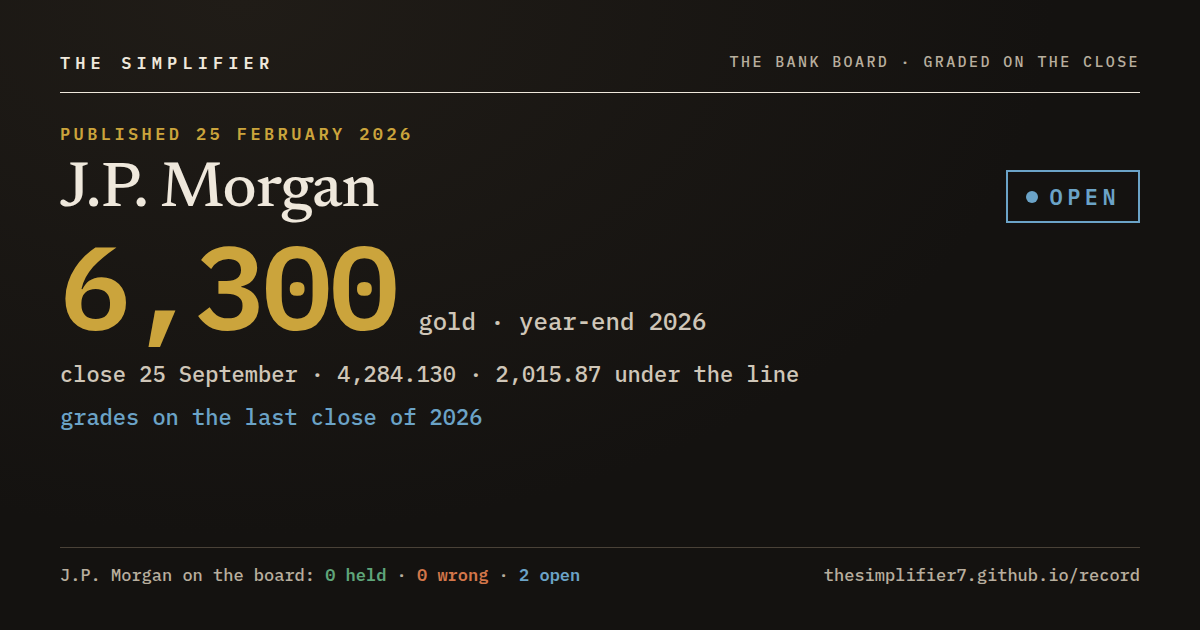
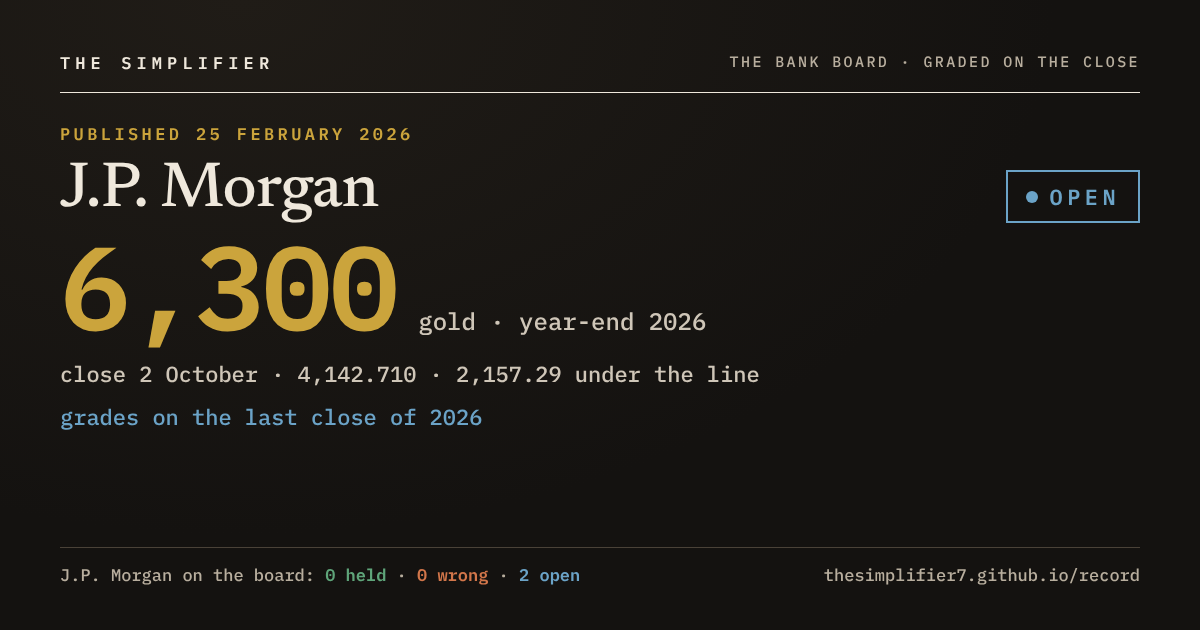
Add files via upload

diff --git a/index.html b/index.html
@@ -67,7 +67,9 @@
      <meta property="og:image" content="https://thesimplifier7.github.io/record/card_2026-09-20_open.png"> -->
 <!-- WAS card_2026-09-20_graded.png until 28 Sep 2026, the Monday map upload: the week of 20 September, as graded.
      <meta property="og:image" content="https://thesimplifier7.github.io/record/card_2026-09-20_graded.png"> -->
-<meta property="og:image" content="https://thesimplifier7.github.io/record/card_2026-09-28_open.png">
+<!-- WAS card_2026-09-28_open.png until 2 Oct 2026, note 44: the week of 28 September while its three rows were open.
+     <meta property="og:image" content="https://thesimplifier7.github.io/record/card_2026-09-28_open.png"> -->
+<meta property="og:image" content="https://thesimplifier7.github.io/record/card_2026-09-28_graded.png">
 <meta property="og:image:width" content="1200">
 <meta property="og:image:height" content="630">
 <meta name="twitter:card" content="summary_large_image">
@@ -1645,11 +1647,11 @@
        in the script. One block, two lines. -->
   <section class="stats" aria-label="Summary">
     <div class="stat">
-      <div class="num" id="t-resolved">29</div>
+      <div class="num" id="t-resolved">32</div>
       <div class="lab">Calls resolved</div>
     </div>
     <div class="stat">
-      <div class="num green" id="t-pass">22</div>
+      <div class="num green" id="t-pass">25</div>
       <div class="lab">Held</div>
     </div>
     <div class="stat">
@@ -1657,7 +1659,7 @@
       <div class="lab">Graded wrong, still on this page</div>
     </div>
     <div class="stat">
-      <div class="num blue" id="t-open">3</div>
+      <div class="num blue" id="t-open">0</div>
       <div class="lab">Open, clock running</div>
     </div>
   </section>
@@ -2094,7 +2096,7 @@
    posted call before it goes live. This page is the whole brand in one place.
    ========================================================================= */
 
-const LAST_UPDATED  = "2026-09-28";   /* set by hand, with the commit. "2026-09-28" for the Monday map upload of 28 September, the first rows named under the call grammar (note 34). WAS "2026-09-25": Kept at "2026-09-25" for the grade upload of the same night, which carries note 42 (the 25 September close). WAS "2026-09-24" until the upload of 25 September, which carries notes 38 to 40 (written 24 September) and note 41 (written early on 25 September); "2026-09-23" until the 24 September uploads, which carry notes 33 to 35 (17:34 CEST), note 36 (the same evening) and note 37 (the same night); "2026-09-20" until the 23 September upload, which carries note 30 (written 22 September, not uploaded that day) and note 31; "2026-09-13" until the 20 September upload */
+const LAST_UPDATED  = "2026-10-02";   /* set by hand, with the commit. "2026-10-02" for the grade upload of 2 October, which carries note 44, the first rows graded under the call grammar. WAS "2026-09-28": "2026-09-28" for the Monday map upload of 28 September, the first rows named under the call grammar (note 34). WAS "2026-09-25": Kept at "2026-09-25" for the grade upload of the same night, which carries note 42 (the 25 September close). WAS "2026-09-24" until the upload of 25 September, which carries notes 38 to 40 (written 24 September) and note 41 (written early on 25 September); "2026-09-23" until the 24 September uploads, which carry notes 33 to 35 (17:34 CEST), note 36 (the same evening) and note 37 (the same night); "2026-09-20" until the 23 September upload, which carries note 30 (written 22 September, not uploaded that day) and note 31; "2026-09-13" until the 20 September upload */
 
 /* =========================================================================
    PROVENANCE  ·  which commit wrote each grade, added 4 Sep 2026
@@ -2121,7 +2123,11 @@ const PROVENANCE = {
      written, and the reader reads GitHub's timestamp rather than this desk's.
      When the row is graded, this entry is replaced by the normal shape with
      the graded date and the hash, and the old shape is kept beside it. */
-  "2026-09-28": { written:"2026-09-28", open:true },
+  /* WAS, while the rows were open and before the close that graded them:
+       "2026-09-28": { written:"2026-09-28", open:true },
+     Graded on the 2 October close, written 2 October. Named by the day rather than by a hash because the hash does not exist until the
+     push that writes this line; swap in the hash on the next push. */
+  "2026-09-28": { graded:"2026-10-02", written:"2026-10-02", dayLink:true },
   /* WAS, while the rows were open and before the close that graded them:
        "2026-08-30": { written:"2026-09-04", open:true },
      Graded on the 4 September close. The commit that carried the rows is
@@ -2310,7 +2316,8 @@ const CLOSES = [
   { date:"2026-09-04", Gold:"4,430.520", Silver:"66.1940", Platinum:"1,819.60" },
   { date:"2026-09-11", Gold:"4,347.760", Silver:"64.4810", Platinum:"1,791.50" },
   { date:"2026-09-18", Gold:"4,377.290", Silver:"66.2210", Platinum:"1,800.40" },
-  { date:"2026-09-25", Gold:"4,284.130", Silver:"64.2560", Platinum:"1,777.80" }
+  { date:"2026-09-25", Gold:"4,284.130", Silver:"64.2560", Platinum:"1,777.80" },
+  { date:"2026-10-02", Gold:"4,142.710", Silver:"60.4470", Platinum:"1,699.70" }
 ];
 
 /* =========================================================================
@@ -2779,10 +2786,15 @@ const CALLS = [
        silver    box 60.932 to 64.212, last print 61.083; data window: week closes above the box 28.9756, below 48.9341
        platinum  box 1,720.72 to 1,775.80, last print 1,716.00; data window: week closes above the box 28.63, below 51.78
      The side, the line and the room are his read. The odds are the data window's, by the rule in the header
-     (an own level by the formula, stated on its row). Grade Friday at the 23:00 CEST close. */
-  { date:"2026-09-28", type:"Map", metal:"Gold", level:"4,280.50", book:"Turn", grammar:1, side:"copper", room:"4,135.74", odds:78, oddsFrom:"data window", lineFrom:"box high", box:["4,135.74","4,280.50"], readAt:"18:03 CEST", call:"Gold stays below 4,280.50, the high of the box it opened this week in, frozen Monday afternoon and read off the 8h chart at 18:03 CEST. Room 4,135.74, the box low. Odds at naming 78 in 100, off the data window. Named on the week's own box before any 8h close through it. Kill: a weekly close above 4,280.50.", grade:"pending" },
-  { date:"2026-09-28", type:"Map", metal:"Silver", level:"64.212", book:"Turn", grammar:1, side:"copper", room:"60.932", odds:71, oddsFrom:"data window", lineFrom:"box high", box:["60.932","64.212"], readAt:"18:03 CEST", call:"Silver stays below 64.212, the high of the box it opened this week in, frozen Monday afternoon and read off the 8h chart at 18:03 CEST. Room 60.932, the box low. Odds at naming 71 in 100, off the data window. Named on the week's own box before any 8h close through it. Kill: a weekly close above 64.212.", grade:"pending" },
-  { date:"2026-09-28", type:"Map", metal:"Platinum", level:"1,775.80", book:"Turn", grammar:1, side:"copper", room:"1,720.72", odds:71, oddsFrom:"data window", lineFrom:"box high", box:["1,720.72","1,775.80"], readAt:"18:03 CEST", call:"Platinum stays below 1,775.80, the high of the box it opened this week in, frozen Monday afternoon and read off the 8h chart at 18:03 CEST. Room 1,720.72, the box low. Odds at naming 71 in 100, off the data window. Named on the week's own box before any 8h close through it. Kill: a weekly close above 1,775.80.", grade:"pending" },
+     (an own level by the formula, stated on its row). Grade Friday at the 23:00 CEST close.
+
+     GRADED on the 2 October close, read off the founder's 8h TVC charts stamped 2 October,
+     market shut, 23:00 CEST: gold 4,142.710, silver 60.4470, platinum 1,699.70.
+     Gold HELD, silver HIT, platinum HIT, by the arithmetic of note 34 on the close and nothing else.
+     The first rows graded under the call grammar. See note 44. */
+  { date:"2026-09-28", type:"Map", metal:"Gold", level:"4,280.50", book:"Turn", grammar:1, side:"copper", room:"4,135.74", odds:78, oddsFrom:"data window", lineFrom:"box high", box:["4,135.74","4,280.50"], readAt:"18:03 CEST", call:"Gold stays below 4,280.50, the high of the box it opened this week in, frozen Monday afternoon and read off the 8h chart at 18:03 CEST. Room 4,135.74, the box low. Odds at naming 78 in 100, off the data window. Named on the week's own box before any 8h close through it. Kill: a weekly close above 4,280.50.", close:"4,142.710", result:"HELD. The weekly close printed 4,142.710, 137.79 under the line of 4,280.50 and 6.97 above the room, 4,135.74. Close read off the founder's 8h TVC chart, market shut, 23:00 CEST 2 October. See note 44.", grade:"pass" },
+  { date:"2026-09-28", type:"Map", metal:"Silver", level:"64.212", book:"Turn", grammar:1, side:"copper", room:"60.932", odds:71, oddsFrom:"data window", lineFrom:"box high", box:["60.932","64.212"], readAt:"18:03 CEST", call:"Silver stays below 64.212, the high of the box it opened this week in, frozen Monday afternoon and read off the 8h chart at 18:03 CEST. Room 60.932, the box low. Odds at naming 71 in 100, off the data window. Named on the week's own box before any 8h close through it. Kill: a weekly close above 64.212.", close:"60.4470", result:"HIT. The weekly close printed 60.4470, 3.765 under the line of 64.212 and 0.485 under the room, 60.932. A hit is counted once, as held. Close read off the founder's 8h TVC chart, market shut, 23:00 CEST 2 October. See note 44.", grade:"pass", hit:true },
+  { date:"2026-09-28", type:"Map", metal:"Platinum", level:"1,775.80", book:"Turn", grammar:1, side:"copper", room:"1,720.72", odds:71, oddsFrom:"data window", lineFrom:"box high", box:["1,720.72","1,775.80"], readAt:"18:03 CEST", call:"Platinum stays below 1,775.80, the high of the box it opened this week in, frozen Monday afternoon and read off the 8h chart at 18:03 CEST. Room 1,720.72, the box low. Odds at naming 71 in 100, off the data window. Named on the week's own box before any 8h close through it. Kill: a weekly close above 1,775.80.", close:"1,699.70", result:"HIT. The weekly close printed 1,699.70, 76.10 under the line of 1,775.80 and 21.02 under the room, 1,720.72. A hit is counted once, as held. Close read off the founder's 8h TVC chart, market shut, 23:00 CEST 2 October. See note 44.", grade:"pass", hit:true },
 
   /* WEEK OF 20 SEPTEMBER. Three rows, open, written before the week they
      grade, and the object changes tonight by the founder's ruling (note 29).
@@ -3376,6 +3388,8 @@ const GUEST = [
 ];
 
 const NOTES = [
+  { n:"44", kind:"standard", title:"Resolution, 2 October 2026. Gold HELD, silver HIT, platinum HIT: the first rows graded under the call grammar.",
+    body:"Friday 2 October close, read off the founder's 8h TVC charts stamped 2 October with the market shut, 23:00 CEST: gold 4,142.710, silver 60.4470, platinum 1,699.70. Three lines were named on 28 September under the call grammar of note 34, each the high of the box its metal opened the week in, each with its side, its room, its odds at naming and the weekly close that would make it wrong. Each is graded by arithmetic on the close: through the line, WRONG; at or through the room, HIT, counted once as held; otherwise HELD. GOLD. Stays below 4,280.50, room 4,135.74, odds at naming 78. The close printed 4,142.710, 137.79 under the line and 6.97 above the room, 4,135.74. HELD. SILVER. Stays below 64.212, room 60.932, odds at naming 71. The close printed 60.4470, 3.765 under the line and 0.485 under the room, 60.932. HIT. PLATINUM. Stays below 1,775.80, room 1,720.72, odds at naming 71. The close printed 1,699.70, 76.10 under the line and 21.02 under the room, 1,720.72. HIT. THE ODDS BOARD. Three rows graded under the grammar, three held, two of them hits. The odds they were named at add up to 2.20. Held against that sum is read over many weeks; this is one week, three rows. THE BANK BOARD. No window shut on this close. THE STANDING CARD. The charts read tonight carry no read of the standing line, so the card stands as last read and says so. THE TALLY. Thirty-two rows resolved, twenty-five held, seven wrong, five never reached, none open. Neither the bank board nor the crowd is in it." },
   { n:"43", kind:"correction", title:"Correction, 28 September 2026. The first 8h close after the box freezes prints at 23:00 in Madrid, not midnight.",
     body:"Note 33 says the rows are named on Monday evening, after the week's box freezes and before the first 8h close after that, which is midnight in Madrid in most weeks. The hour is wrong. The 8h bar that opens at 16:00 CEST on Monday does not run its eight hours: it ends at 23:00 CEST, when the metals stop for the daily break from 23:00 to 00:00 that note 30 cites, and the next bar opens at midnight. The founder's 8h TVC chart of gold, stamped 18:47 CEST tonight, shows that bar with 4 hours 12 minutes left to run. The deadline for a Monday row is therefore 23:00 CEST. In the weeks when Europe and New York change their clocks on different dates, the last week of October and the second half of March, the freeze, the break and the deadline each come an hour earlier in Madrid, 22:00 for the deadline. The commit time of each Monday upload shows whether its rows beat it. No row was named under note 33 before tonight, so no row is affected, and note 33 stands as written, corrected here and not in its own words." },
   { n:"42", kind:"standard", title:"Resolution, 25 September 2026. Gold's floor broke by 52.87, silver's held by 0.176 and platinum's by 31.80. The last rows graded in the old words.",

diff --git a/make_email.js b/make_email.js
@@ -46,6 +46,19 @@ const count = (n, one, many) => `${WORDS[n] || n} ${n === 1 ? one : many}`;
 const fridayOf = iso => { const d = new Date(iso + "T12:00:00Z"); d.setUTCDate(d.getUTCDate() + ((5 - d.getUTCDay() + 7) % 7)); return d.toISOString().slice(0, 10); };
 /* 28 Sep 2026, plain words for readers who do not follow the account. WAS: "Copper · stays below the line" / "Slate · holds above the line" */
 const sideLine = r => r.side === "copper" ? "Stays below the line" : "Holds above the line";
+/* 2 Oct 2026, the Friday email in plain words for the call grammar rows, as the Monday email since 28 Sep.
+   The row's result keeps the record's own words on the page; the email says what the close did. */
+const PN = s => Number(String(s).replace(/,/g, ""));
+const fridayLines = r => {
+  const dp = r.metal === "Silver" ? 3 : 2, f = v => Math.abs(v).toLocaleString("en-GB", { minimumFractionDigits: dp, maximumFractionDigits: dp });
+  const below = r.side === "copper", cl = PN(r.close), lv = PN(r.line || r.level), rm = PN(r.room), box = (r.box || []).map(PN);
+  const d = cl - lv, dr = cl - rm, way = v => (below ? v < 0 : v > 0) ? (below ? "under" : "above") : (below ? "above" : "under");
+  const edge = rm === box[0] ? "the bottom of the week's first 16 hours" : rm === box[1] ? "the top of the week's first 16 hours" : "the next level on the call";
+  const out = [`${sideLine(r)}. The week closed at ${r.close}, ${d === 0 ? "exactly on the line" : f(d) + " " + way(d) + " the line"}.`];
+  if (r.hit) out.push(dr === 0 ? `It closed exactly on ${edge}, ${r.room}, which counts as through it.` : `It closed ${way(dr)} ${edge} as well, ${r.room}, by ${f(dr)}.`);
+  out.push(`The odds it would hold, at the time of the call: ${r.odds} in 100.`);
+  return out;
+};
 const WORD = r => r.grade === "pending" ? "OPEN" : (r.grade === "pass" && /hit/.test(r.grade_word || "")) ? "HIT" : ({ pass: "HELD", miss: "WRONG", notest: "NEVER REACHED", nokill: "NO KILL", partial: "PARTIAL" })[r.grade] || String(r.grade_word || r.grade).toUpperCase();
 
 /* ---------------------------------------------------------------- blocks */
@@ -68,17 +81,23 @@ if (kind === "monday") {
   const cl = (R.closes || []).find(c => c.date === date) || {};
   const closes = ["Gold", "Silver", "Platinum"].filter(m => cl[m]).map(m => `${m.toLowerCase()} ${cl[m]}`);
   subject = `The Friday grade · ${long(date)}`;
-  lede = `The weekly close of ${long(date)}${closes.length ? ": " + closes.join(", ") : ""}. ${count(set.length, "row", "rows")} graded on it.`;
-  for (const r of set) blocks.push({ head: `${r.metal.toUpperCase()} · ${r.level} · ${WORD(r)}`, lines: [r.result || ""], link: r.url });
+  /* 2 Oct 2026, plain words. WAS: ${count(set.length, "row", "rows")} graded on it. */
+  lede = `The weekly close of ${long(date)}${closes.length ? ": " + closes.join(", ") : ""}. ${count(set.length, "call", "calls")} decided on it.`;
+  /* 2 Oct 2026, plain words for the grammar rows. WAS, for every row:
+     for (const r of set) blocks.push({ head: `${r.metal.toUpperCase()} · ${r.level} · ${WORD(r)}`, lines: [r.result || ""], link: r.url }); */
+  for (const r of set) blocks.push(r.grammar && r.close
+    ? { head: `${r.metal.toUpperCase()} · ${r.line || r.level} · ${WORD(r)}`, lines: fridayLines(r), link: r.url }
+    : { head: `${r.metal.toUpperCase()} · ${r.level} · ${WORD(r)}`, lines: [r.result || ""], link: r.url });
   const t = R.tally || {};
   const latest = rows.map(r => r.graded_on_close).filter(Boolean).sort().pop();
   tail.push(`${date === latest ? "The record after this close" : "The record today"}: ${t.resolved} resolved, ${t.held} held and ${t.wrong} wrong, every one of them kept. ${t.never_reached} never reached, counted for neither side.${t.open ? ` ${t.open} open.` : ""}`);
   const g = R.grammar || {};
-  if (g.graded) tail.push(`Under the call grammar: ${g.graded} graded, ${g.held} held. The odds they were named at add up to ${g.expected}. Held past that figure is the read beating the odds; short of it, it is not.`);
+  /* 2 Oct 2026, plain words. WAS: `Under the call grammar: ${g.graded} graded, ${g.held} held. The odds they were named at add up to ${g.expected}. Held past that figure is the read beating the odds; short of it, it is not.` */
+  if (g.graded) tail.push(`Since the calls of 28 September: ${g.graded} decided, ${g.held} held${g.hit ? `, ${g.hit} of them through the other edge of the week's first 16 hours as well` : ""}. Added up, the odds at the time of each call come to ${Number(g.expected).toFixed(2)}. More held than that figure is the read beating the odds; fewer, and it is not.`);
   const wrong = set.filter(r => r.grade === "miss");
-  if (wrong.length) tail.push(`Every wrong row, in full: ${SITE}misses.html`);
+  if (wrong.length) tail.push(`Every wrong call, in full: ${SITE}misses.html`);   /* 2 Oct 2026, plain words. WAS: Every wrong row, in full */
 }
-tail.push(`Every row since June, the wrong ones included: ${SITE}`);
+tail.push(`Every call since June, the wrong ones included: ${SITE}`);   /* 2 Oct 2026, plain words. WAS: Every row since June */
 
 /* ---------------------------------------------------------------- brand law */
 const all = [subject, lede, ...blocks.flatMap(b => [b.head, ...b.lines]), ...tail].join("\n");

diff --git a/week_card.html b/week_card.html
@@ -2,9 +2,6 @@
 <link rel="preconnect" href="https://fonts.googleapis.com"><link rel="preconnect" href="https://fonts.gstatic.com" crossorigin>
 <link href="https://fonts.googleapis.com/css2?family=Newsreader:opsz,wght@6..72,400&family=IBM+Plex+Mono:wght@500;600&display=swap" rel="stylesheet">
 <style>
-@font-face{font-family:'IBM Plex Mono';font-weight:500;src:url(file:///home/claude/fonts/package/fonts/complete/woff2/IBMPlexMono-Medium.woff2)}
-@font-face{font-family:'IBM Plex Mono';font-weight:600;src:url(file:///home/claude/fonts/package/fonts/complete/woff2/IBMPlexMono-SemiBold.woff2)}
-@font-face{font-family:'Newsreader';font-weight:400;src:url(file:///home/claude/fonts/nr/package/files/newsreader-latin-400-normal.woff2)}
 *{box-sizing:border-box;margin:0;padding:0}
 html,body{width:1200px;height:630px;overflow:hidden}
 body{background:#141210;background-image:radial-gradient(900px 380px at 78% -12%,rgba(203,164,60,.10),transparent 70%);color:#CFC6B8;font-family:'IBM Plex Mono',monospace;font-variant-numeric:tabular-nums;padding:44px 60px 36px;display:flex;flex-direction:column}
@@ -24,10 +21,10 @@ body{background:#141210;background-image:radial-gradient(900px 380px at 78% -12%
 .count .url{margin-left:auto;letter-spacing:.08em;text-transform:none;color:#8E8474;font-size:13px}
 </style></head><body>
 <div class="mast"><b>THE SIMPLIFIER</b><span>Metals · the record</span></div>
-<div class="k">This week · called 28 Sep · decided on the 2 Oct close</div>
-<div class="cols"><div class="c" style="border-top-color:#6BA3C7"><div class="m">Gold</div><div class="lv" style="color:#6BA3C7">4,280.50</div>
-    <div class="l2" style="color:#B8AE9E">stays below</div><div class="l3">close 25 Sep · 4,284.130</div><div class="l4" style="color:#6BA3C7">odds it holds 78 in 100</div></div><div class="c" style="border-top-color:#6BA3C7"><div class="m">Silver</div><div class="lv" style="color:#6BA3C7">64.212</div>
-    <div class="l2" style="color:#B8AE9E">stays below</div><div class="l3">close 25 Sep · 64.2560</div><div class="l4" style="color:#6BA3C7">odds it holds 71 in 100</div></div><div class="c" style="border-top-color:#6BA3C7"><div class="m">Platinum</div><div class="lv" style="color:#6BA3C7">1,775.80</div>
-    <div class="l2" style="color:#B8AE9E">stays below</div><div class="l3">close 25 Sep · 1,777.80</div><div class="l4" style="color:#6BA3C7">odds it holds 71 in 100</div></div></div>
-<div class="count"><span><b style="color:#EFE8DC">29</b>resolved</span><span><b style="color:#5FA57A">22</b>held</span><span><b style="color:#D2764A">7</b>wrong, kept</span><span><b style="color:#6BA3C7">3</b>open</span><span class="url">thesimplifier7.github.io/record</span></div>
+<div class="k">Decided on the 2 Oct close · the next calls come Monday</div>
+<div class="cols"><div class="c" style="border-top-color:#5FA57A"><div class="m">Gold</div><div class="lv" style="color:#5FA57A">4,280.50</div>
+    <div class="l2" style="color:#5FA57A">Held</div><div class="l3">close 2 Oct · 4,142.710</div><div class="l4" style="color:#5FA57A">+137.79 clear</div></div><div class="c" style="border-top-color:#5FA57A"><div class="m">Silver</div><div class="lv" style="color:#5FA57A">64.212</div>
+    <div class="l2" style="color:#5FA57A">Hit</div><div class="l3">close 2 Oct · 60.4470</div><div class="l4" style="color:#5FA57A">+3.765 clear</div></div><div class="c" style="border-top-color:#5FA57A"><div class="m">Platinum</div><div class="lv" style="color:#5FA57A">1,775.80</div>
+    <div class="l2" style="color:#5FA57A">Hit</div><div class="l3">close 2 Oct · 1,699.70</div><div class="l4" style="color:#5FA57A">+76.10 clear</div></div></div>
+<div class="count"><span><b style="color:#EFE8DC">32</b>resolved</span><span><b style="color:#5FA57A">25</b>held, 2 hit</span><span><b style="color:#D2764A">7</b>wrong, kept</span><span class="url">thesimplifier7.github.io/record</span></div>
 </body></html>

diff --git a/mks-pamp-gold-5800-2026-12-31.html b/mks-pamp-gold-5800-2026-12-31.html
@@ -10,7 +10,7 @@
 <meta property="og:url" content="https://thesimplifier7.github.io/record/mks-pamp-gold-5800-2026-12-31.html">
 <meta property="og:title" content="MKS PAMP · 5,800 second half of 2026">
 <meta property="og:description" content="MKS PAMP said 5,800 second half of 2026, on 19 May 2026. Graded on the weekly close by one rule. Grades on the last weekly close of 2026.">
-<meta property="og:image" content="https://thesimplifier7.github.io/record/mks-pamp-gold-5800-2026-12-31.png?v=206b0d9b73">
+<meta property="og:image" content="https://thesimplifier7.github.io/record/mks-pamp-gold-5800-2026-12-31.png?v=e95fd5ea95">
 <meta property="og:image:width" content="1200"><meta property="og:image:height" content="630">
 <meta name="twitter:card" content="summary_large_image">
 <link rel="canonical" href="https://thesimplifier7.github.io/record/mks-pamp-gold-5800-2026-12-31.html">
@@ -87,7 +87,7 @@
     <div><div class="t">Target</div><div class="v gold">5,800</div><div class="s">gold · from below</div></div>
     <div><div class="t">Window</div><div class="v">second half of 2026</div><div class="s">last weekly close of 2026</div></div>
     <div><div class="t">Said by</div><div class="v">MKS PAMP</div><div class="s">primary</div></div>
-    <div><div class="t">Last close on file</div><div class="v">4,284.130</div><div class="s">25 September · 1,515.87 under the line, 35.4 percent</div></div>
+    <div><div class="t">Last close on file</div><div class="v">4,142.710</div><div class="s">2 October · 1,657.29 under the line, 40.0 percent</div></div>
   </div>
 
   <blockquote><p>“Gold is still expected to average $4,500/oz in 2026, with a new higher all-time high of $5,800/oz a fair target for the second half of the year.”</p><cite>MKS PAMP · 19 May 2026 · <a href="https://www.kitco.com/news/article/2026-05-19/gold-will-hit-5800-ath-december-silver-has-highest-upside-platinum-has" rel="nofollow noopener">the source</a></cite></blockquote>

diff --git a/j-p-morgan-gold-6300-2026-12-31.html b/j-p-morgan-gold-6300-2026-12-31.html
@@ -10,7 +10,7 @@
 <meta property="og:url" content="https://thesimplifier7.github.io/record/j-p-morgan-gold-6300-2026-12-31.html">
 <meta property="og:title" content="J.P. Morgan · 6,300 year-end 2026">
 <meta property="og:description" content="J.P. Morgan said 6,300 year-end 2026, on 25 February 2026. Graded on the weekly close by one rule. Grades on the last weekly close of 2026.">
-<meta property="og:image" content="https://thesimplifier7.github.io/record/j-p-morgan-gold-6300-2026-12-31.png?v=d2c1046365">
+<meta property="og:image" content="https://thesimplifier7.github.io/record/j-p-morgan-gold-6300-2026-12-31.png?v=4db53be03e">
 <meta property="og:image:width" content="1200"><meta property="og:image:height" content="630">
 <meta name="twitter:card" content="summary_large_image">
 <link rel="canonical" href="https://thesimplifier7.github.io/record/j-p-morgan-gold-6300-2026-12-31.html">
@@ -87,7 +87,7 @@
     <div><div class="t">Target</div><div class="v gold">6,300</div><div class="s">gold · from below</div></div>
     <div><div class="t">Window</div><div class="v">year-end 2026</div><div class="s">last weekly close of 2026</div></div>
     <div><div class="t">Said by</div><div class="v">J.P. Morgan</div><div class="s">Global Research</div></div>
-    <div><div class="t">Last close on file</div><div class="v">4,284.130</div><div class="s">25 September · 2,015.87 under the line, 47.1 percent</div></div>
+    <div><div class="t">Last close on file</div><div class="v">4,142.710</div><div class="s">2 October · 2,157.29 under the line, 52.1 percent</div></div>
   </div>
 
   <blockquote><p>“Gold price will rise 22% above current level to reach $6,300 by year-end 2026.”</p><cite>J.P. Morgan Global Research · 25 February 2026 · <a href="https://www.kitco.com/news/article/2026-02-25/gold-price-will-rise-22-above-current-level-reach-6300-year-end-2026-jp" rel="nofollow noopener">the source</a></cite></blockquote>

diff --git a/j-p-morgan-gold-6000-2026-12-31.html b/j-p-morgan-gold-6000-2026-12-31.html
@@ -10,7 +10,7 @@
 <meta property="og:url" content="https://thesimplifier7.github.io/record/j-p-morgan-gold-6000-2026-12-31.html">
 <meta property="og:title" content="J.P. Morgan · 6,000 Q4 2026">
 <meta property="og:description" content="J.P. Morgan said 6,000 Q4 2026, on 23 June 2026. Graded on the weekly close by one rule. Grades on the last weekly close of 2026.">
-<meta property="og:image" content="https://thesimplifier7.github.io/record/j-p-morgan-gold-6000-2026-12-31.png?v=672142ce7c">
+<meta property="og:image" content="https://thesimplifier7.github.io/record/j-p-morgan-gold-6000-2026-12-31.png?v=d40c96f443">
 <meta property="og:image:width" content="1200"><meta property="og:image:height" content="630">
 <meta name="twitter:card" content="summary_large_image">
 <link rel="canonical" href="https://thesimplifier7.github.io/record/j-p-morgan-gold-6000-2026-12-31.html">
@@ -87,7 +87,7 @@
     <div><div class="t">Target</div><div class="v gold">6,000</div><div class="s">gold · from below</div></div>
     <div><div class="t">Window</div><div class="v">Q4 2026</div><div class="s">last weekly close of 2026</div></div>
     <div><div class="t">Said by</div><div class="v">J.P. Morgan</div><div class="s">Global Research, as reported</div></div>
-    <div><div class="t">Last close on file</div><div class="v">4,284.130</div><div class="s">25 September · 1,715.87 under the line, 40.1 percent</div></div>
+    <div><div class="t">Last close on file</div><div class="v">4,142.710</div><div class="s">2 October · 1,857.29 under the line, 44.8 percent</div></div>
   </div>
 
   <blockquote><p>“Q4 2026: ~$6,000/oz. End of 2027: ~$6,300/oz potential.”</p><cite>J.P. Morgan Global Research, as reported · 23 June 2026 · <a href="https://www.canadianminingreport.com/blog/jpmorgan-s-latest-gold-forecast-what-the-world-s-largest-bank-is-telling-investors" rel="nofollow noopener">the source</a></cite></blockquote>

diff --git a/citi-gold-4800-2026-12-04.html b/citi-gold-4800-2026-12-04.html
@@ -10,7 +10,7 @@
 <meta property="og:url" content="https://thesimplifier7.github.io/record/citi-gold-4800-2026-12-04.html">
 <meta property="og:title" content="Citi · 4,800 · 0 to 3 months">
 <meta property="og:description" content="Citi said 4,800 · 0 to 3 months, on 4 September 2026. Graded on the weekly close by one rule. Grades on the 4 December close.">
-<meta property="og:image" content="https://thesimplifier7.github.io/record/citi-gold-4800-2026-12-04.png?v=210e18dd78">
+<meta property="og:image" content="https://thesimplifier7.github.io/record/citi-gold-4800-2026-12-04.png?v=68d5a252e2">
 <meta property="og:image:width" content="1200"><meta property="og:image:height" content="630">
 <meta name="twitter:card" content="summary_large_image">
 <link rel="canonical" href="https://thesimplifier7.github.io/record/citi-gold-4800-2026-12-04.html">
@@ -87,7 +87,7 @@
     <div><div class="t">Target</div><div class="v gold">4,800</div><div class="s">gold · from below</div></div>
     <div><div class="t">Window</div><div class="v">0 to 3 months</div><div class="s">last weekly close 4 December 2026</div></div>
     <div><div class="t">Said by</div><div class="v">Citi</div><div class="s">Research</div></div>
-    <div><div class="t">Last close on file</div><div class="v">4,284.130</div><div class="s">25 September · 515.87 under the line, 12.0 percent</div></div>
+    <div><div class="t">Last close on file</div><div class="v">4,142.710</div><div class="s">2 October · 657.29 under the line, 15.9 percent</div></div>
   </div>
 
   <blockquote><p>“The bank sets its 0-3 month point price target for gold at $4,800 per ounce and its 6-12 month forecast at $5,000 per ounce.”</p><cite>Citi Research · 4 September 2026 · <a href="https://www.investing.com/news/commodities-news/citi-says-the-dip-in-gold-prices-is-a-buying-opportunity-93CH-4889056" rel="nofollow noopener">the source</a></cite></blockquote>

diff --git a/goldman-sachs-gold-4900-2026-12-31.html b/goldman-sachs-gold-4900-2026-12-31.html
@@ -10,7 +10,7 @@
 <meta property="og:url" content="https://thesimplifier7.github.io/record/goldman-sachs-gold-4900-2026-12-31.html">
 <meta property="og:title" content="Goldman Sachs · 4,900 year-end 2026">
 <meta property="og:description" content="Goldman Sachs said 4,900 year-end 2026, on 2 September 2026. Graded on the weekly close by one rule. Grades on the last weekly close of 2026.">
-<meta property="og:image" content="https://thesimplifier7.github.io/record/goldman-sachs-gold-4900-2026-12-31.png?v=e5e5191d79">
+<meta property="og:image" content="https://thesimplifier7.github.io/record/goldman-sachs-gold-4900-2026-12-31.png?v=6e9cde0a89">
 <meta property="og:image:width" content="1200"><meta property="og:image:height" content="630">
 <meta name="twitter:card" content="summary_large_image">
 <link rel="canonical" href="https://thesimplifier7.github.io/record/goldman-sachs-gold-4900-2026-12-31.html">
@@ -87,7 +87,7 @@
     <div><div class="t">Target</div><div class="v gold">4,900</div><div class="s">gold · from below</div></div>
     <div><div class="t">Window</div><div class="v">year-end 2026</div><div class="s">last weekly close of 2026</div></div>
     <div><div class="t">Said by</div><div class="v">Goldman Sachs</div><div class="s">Research</div></div>
-    <div><div class="t">Last close on file</div><div class="v">4,284.130</div><div class="s">25 September · 615.87 under the line, 14.4 percent</div></div>
+    <div><div class="t">Last close on file</div><div class="v">4,142.710</div><div class="s">2 October · 757.29 under the line, 18.3 percent</div></div>
   </div>
 
   <blockquote><p>“Goldman Sachs sees gold price at $4,900/oz by year-end.”</p><cite>Goldman Sachs Research · 2 September 2026 · <a href="http://www.kitco.com/news/article/2026-09-02/goldman-sachs-sees-gold-price-4900oz-year-end-investors-hedging-through" rel="nofollow noopener">the source</a></cite></blockquote>

diff --git a/ubs-gold-5500-2026-12-31.html b/ubs-gold-5500-2026-12-31.html
@@ -10,7 +10,7 @@
 <meta property="og:url" content="https://thesimplifier7.github.io/record/ubs-gold-5500-2026-12-31.html">
 <meta property="og:title" content="UBS · 5,500 year-end 2026">
 <meta property="og:description" content="UBS said 5,500 year-end 2026, on 27 May 2026. Graded on the weekly close by one rule. Grades on the last weekly close of 2026.">
-<meta property="og:image" content="https://thesimplifier7.github.io/record/ubs-gold-5500-2026-12-31.png?v=d8adba0fad">
+<meta property="og:image" content="https://thesimplifier7.github.io/record/ubs-gold-5500-2026-12-31.png?v=3f5e92b77f">
 <meta property="og:image:width" content="1200"><meta property="og:image:height" content="630">
 <meta name="twitter:card" content="summary_large_image">
 <link rel="canonical" href="https://thesimplifier7.github.io/record/ubs-gold-5500-2026-12-31.html">
@@ -87,7 +87,7 @@
     <div><div class="t">Target</div><div class="v gold">5,500</div><div class="s">gold · from below</div></div>
     <div><div class="t">Window</div><div class="v">year-end 2026</div><div class="s">last weekly close of 2026</div></div>
     <div><div class="t">Said by</div><div class="v">UBS</div><div class="s">primary</div></div>
-    <div><div class="t">Last close on file</div><div class="v">4,284.130</div><div class="s">25 September · 1,215.87 under the line, 28.4 percent</div></div>
+    <div><div class="t">Last close on file</div><div class="v">4,142.710</div><div class="s">2 October · 1,357.29 under the line, 32.8 percent</div></div>
   </div>
 
   <blockquote><p>“Swiss banking giant UBS has cut its year-end 2026 gold price forecast from $5,900 to $5,500 per ounce.”</p><cite>UBS · 27 May 2026 · <a href="https://www.kitco.com/news/article/2026-05-27/ubs-lowers-2026-gold-price-forecast-5500oz-markets-are-rediscovering" rel="nofollow noopener">the source</a></cite></blockquote>

diff --git a/citi-gold-2700-2026-12-31.html b/citi-gold-2700-2026-12-31.html
@@ -10,7 +10,7 @@
 <meta property="og:url" content="https://thesimplifier7.github.io/record/citi-gold-2700-2026-12-31.html">
 <meta property="og:title" content="Citi · 2,700 the second half of 2026">
 <meta property="og:description" content="Citi said 2,700 the second half of 2026, on 17 June 2025. Graded on the weekly close by one rule. Grades on the last weekly close of 2026.">
-<meta property="og:image" content="https://thesimplifier7.github.io/record/citi-gold-2700-2026-12-31.png?v=8961085c99">
+<meta property="og:image" content="https://thesimplifier7.github.io/record/citi-gold-2700-2026-12-31.png?v=cdda5cf220">
 <meta property="og:image:width" content="1200"><meta property="og:image:height" content="630">
 <meta name="twitter:card" content="summary_large_image">
 <link rel="canonical" href="https://thesimplifier7.github.io/record/citi-gold-2700-2026-12-31.html">
@@ -87,7 +87,7 @@
     <div><div class="t">Target</div><div class="v gold">2,700</div><div class="s">gold · from above</div></div>
     <div><div class="t">Window</div><div class="v">the second half of 2026</div><div class="s">last weekly close of 2026</div></div>
     <div><div class="t">Said by</div><div class="v">Citi</div><div class="s">Research</div></div>
-    <div><div class="t">Last close on file</div><div class="v">4,284.130</div><div class="s">25 September · 1,584.13 over the line, 37.0 percent</div></div>
+    <div><div class="t">Last close on file</div><div class="v">4,142.710</div><div class="s">2 October · 1,442.71 over the line, 34.8 percent</div></div>
   </div>
 
   <blockquote><p>“Gold could return to around $2,500-$2,700/oz by the second half of 2026.”</p><cite>Citi Research · 17 June 2025 · <a href="https://finance.yahoo.com/news/citi-sees-gold-below-3-091750805.html" rel="nofollow noopener">the source</a></cite></blockquote>

diff --git a/misses.html b/misses.html
@@ -10,7 +10,7 @@
 <!-- the link card, 24 Sep 2026, note 37 on the record -->
 <meta property="og:type" content="website">
 <meta property="og:url" content="https://thesimplifier7.github.io/record/misses.html">
-<meta property="og:image" content="https://thesimplifier7.github.io/record/link_misses.png?v=3f4b793607">
+<meta property="og:image" content="https://thesimplifier7.github.io/record/link_misses.png?v=aa190a993b">
 <meta property="og:image:width" content="1200"><meta property="og:image:height" content="630">
 <meta name="twitter:card" content="summary_large_image">
 <!-- GENERATED by make_misses.js from index.html. Do not edit by hand; edit the ledger. -->
@@ -100,7 +100,7 @@ if(t==="light")document.documentElement.setAttribute("data-theme","light");})();
   </nav>
   <h1>The ones I got wrong.</h1>
   <p class="stand">You have followed a gold call that was wrong and watched it disappear. These did not. Every call on the record that the close proved wrong, in full: the level as named, the kill published with it before the week, the close that fired it, and everything written about it afterwards. They are here because a record that keeps only its wins is not a record.</p>
-  <p class="tally"><b>7</b> wrong · <b>22</b> held · <b>5</b> never reached · <b>3</b> open · 37 rows on the record. The wrong ones are 24 percent of the 29 resolved, stated beside its base because a percentage on a base this size is a small sample and should be read as one.</p>
+  <p class="tally"><b>7</b> wrong · <b>25</b> held · <b>5</b> never reached · 37 rows on the record. The wrong ones are 22 percent of the 32 resolved, stated beside its base because a percentage on a base this size is a small sample and should be read as one.</p>
 
   <section class="miss" id="miss-1">
     <div class="head">

diff --git a/tally_card_vertical_dark.html b/tally_card_vertical_dark.html
@@ -40,12 +40,14 @@
 <div class="card">
   <div class="mast"><span class="name">The Simplifier</span><span class="desc">Metals · The record</span></div>
   <div class="body">
-    <div class="kicker">The record · graded on the 25 Sep 2026 close</div>
+    <!-- 2 Oct 2026: "decided" for "graded", the founder's ruling of 28 September (no house words on anything a stranger reads; this card is the media of the grade post).
+         WAS: The record · graded on the 2 Oct 2026 close -->
+    <div class="kicker">The record · decided on the 2 Oct 2026 close</div>
     <div class="grid">
-      <div class="stat"><span class="num pass">22</span><span class="lab">held</span></div>
+      <div class="stat"><span class="num pass">25</span><span class="lab">held</span></div>
       <div class="stat"><span class="num miss">7</span><span class="lab">wrong, still on the page</span></div>
       <div class="stat"><span class="num nr">5</span><span class="lab">never reached</span></div>
-      <div class="stat"><span class="num open">3</span><span class="lab">open, clock running</span></div>
+      
     </div>
   </div>
   <div class="foot stack"><span class="law">Named before · Graded after · Nothing deleted</span><span class="handle">@TheSimplifier7</span></div>
